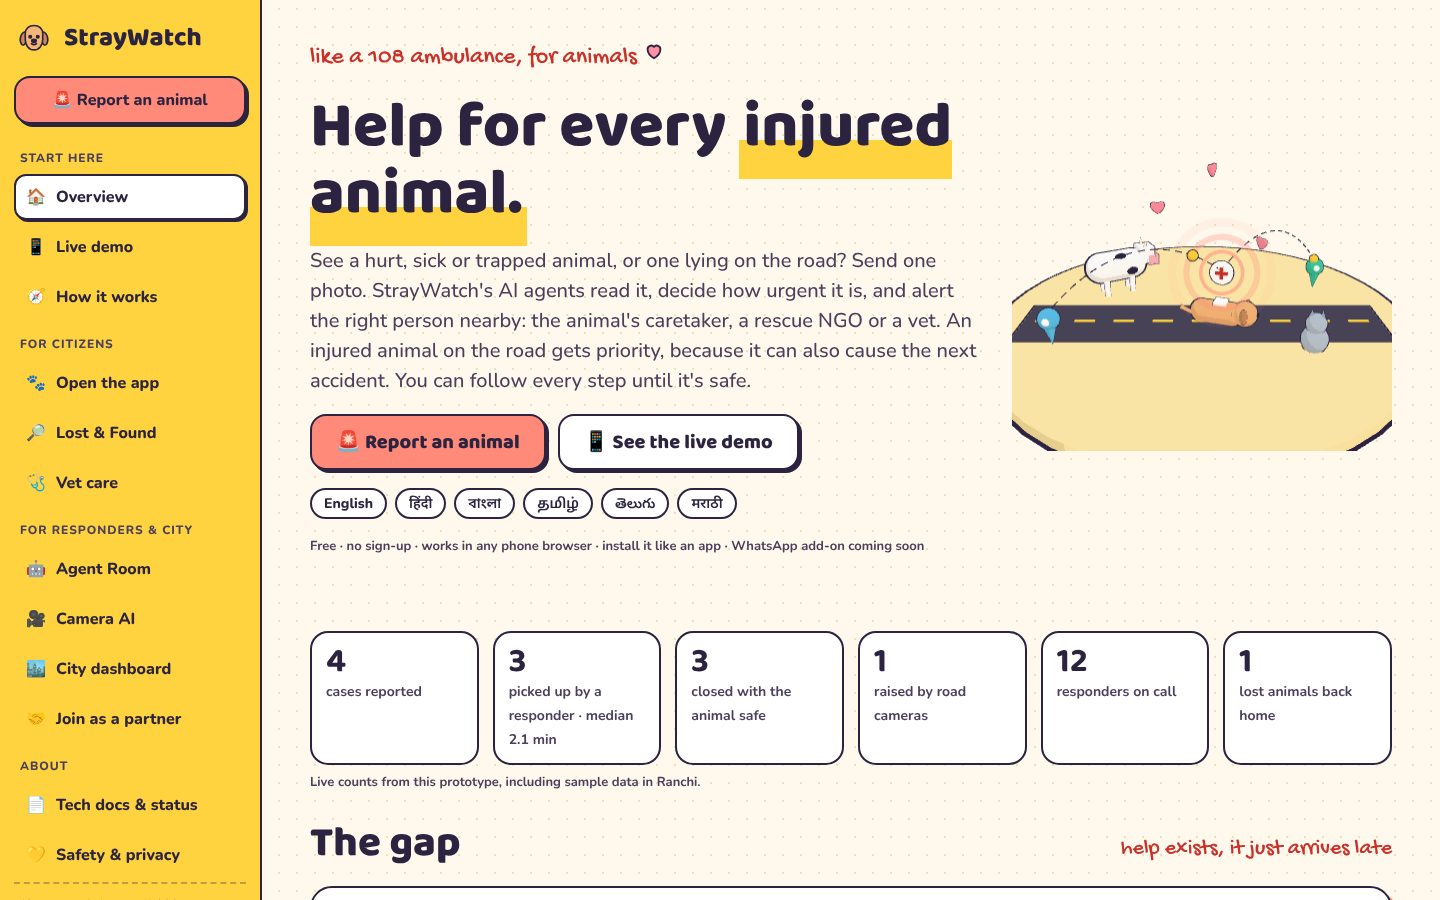
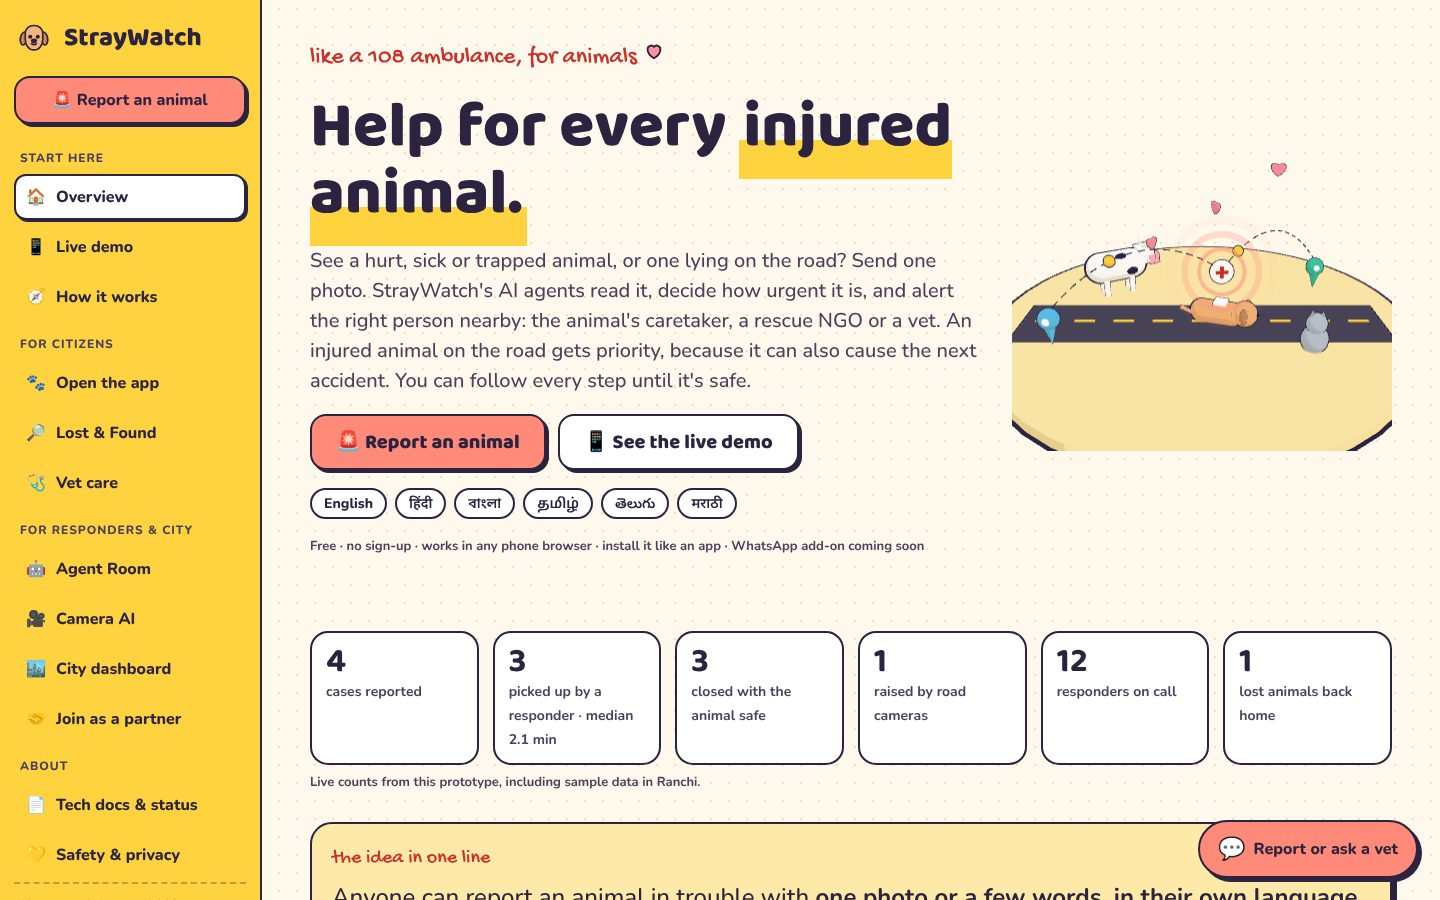
Screenshots: overview with the chat button, what's new, vet care page (from the live site)

diff --git a/README.md b/README.md
@@ -45,8 +45,10 @@ hurt, it's treated as hurt; if the photo is unclear, StrayWatch asks instead of 
 
 | | |
 |---|---|
-| ![Overview](docs/screenshots/01-overview.jpg) | ![Live demo: SOS](docs/screenshots/02-demo-sos.jpg) |
-| **Overview** | **Live demo:** a Hinglish SOS; the responder's phone gets the alert |
+| ![Overview](docs/screenshots/01-overview.jpg) | ![What's new](docs/screenshots/11-whats-new.jpg) |
+| **Overview** (chat button bottom-right on every page) | **The idea in one line, what's new, today vs StrayWatch** |
+| ![Live demo: SOS](docs/screenshots/02-demo-sos.jpg) | ![Vet care page](docs/screenshots/12-vet-page.jpg) |
+| **Live demo:** a Hinglish SOS; the responder's phone gets the alert | **Vet care:** verified vets online, emergencies to 1962 |
 | ![Vet consult](docs/screenshots/03-vet-consult.jpg) | ![Agent Room](docs/screenshots/04-agent-room.jpg) |
 | **Vet consult:** pre-check, care card, a verified vet joins | **Agent Room:** every case and its ledger, live |
 | ![City map](docs/screenshots/05-city-map.jpg) | ![Camera AI](docs/screenshots/06-camera-ai.jpg) |
